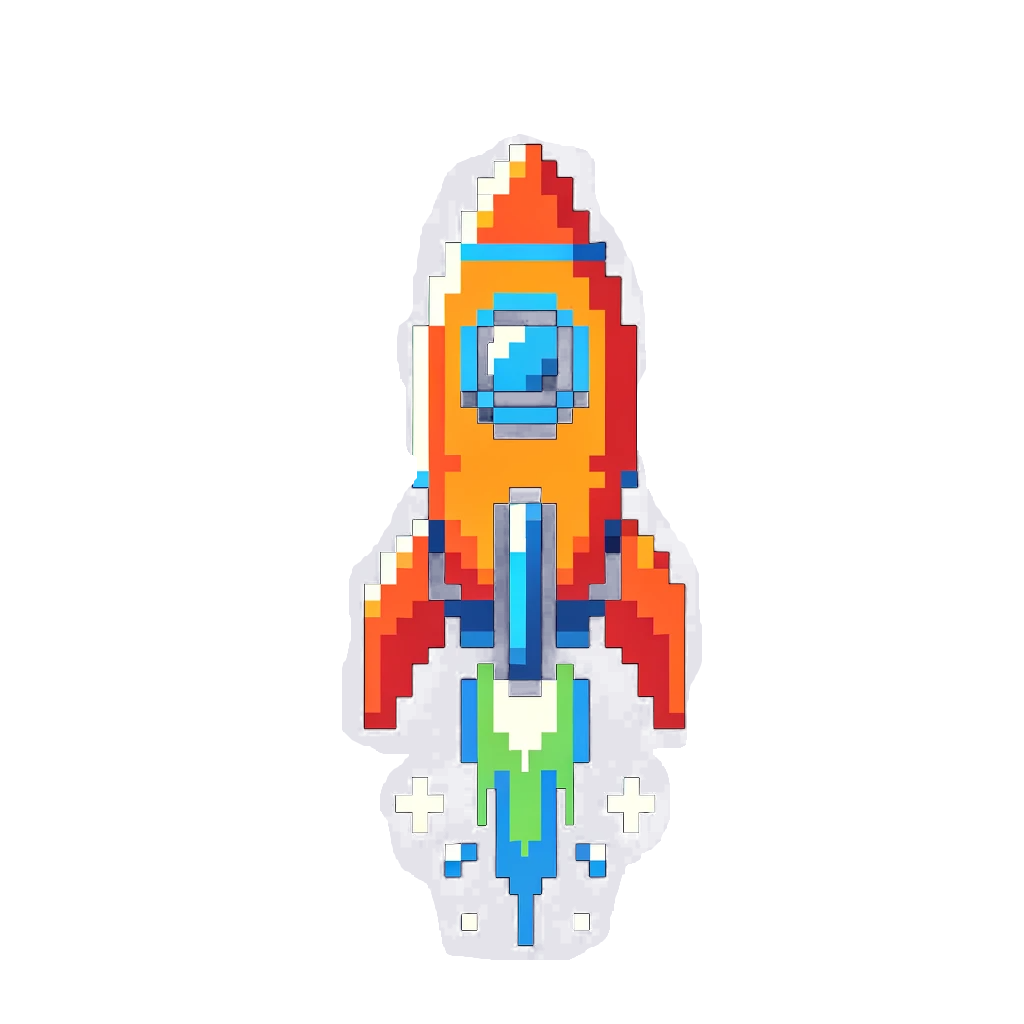
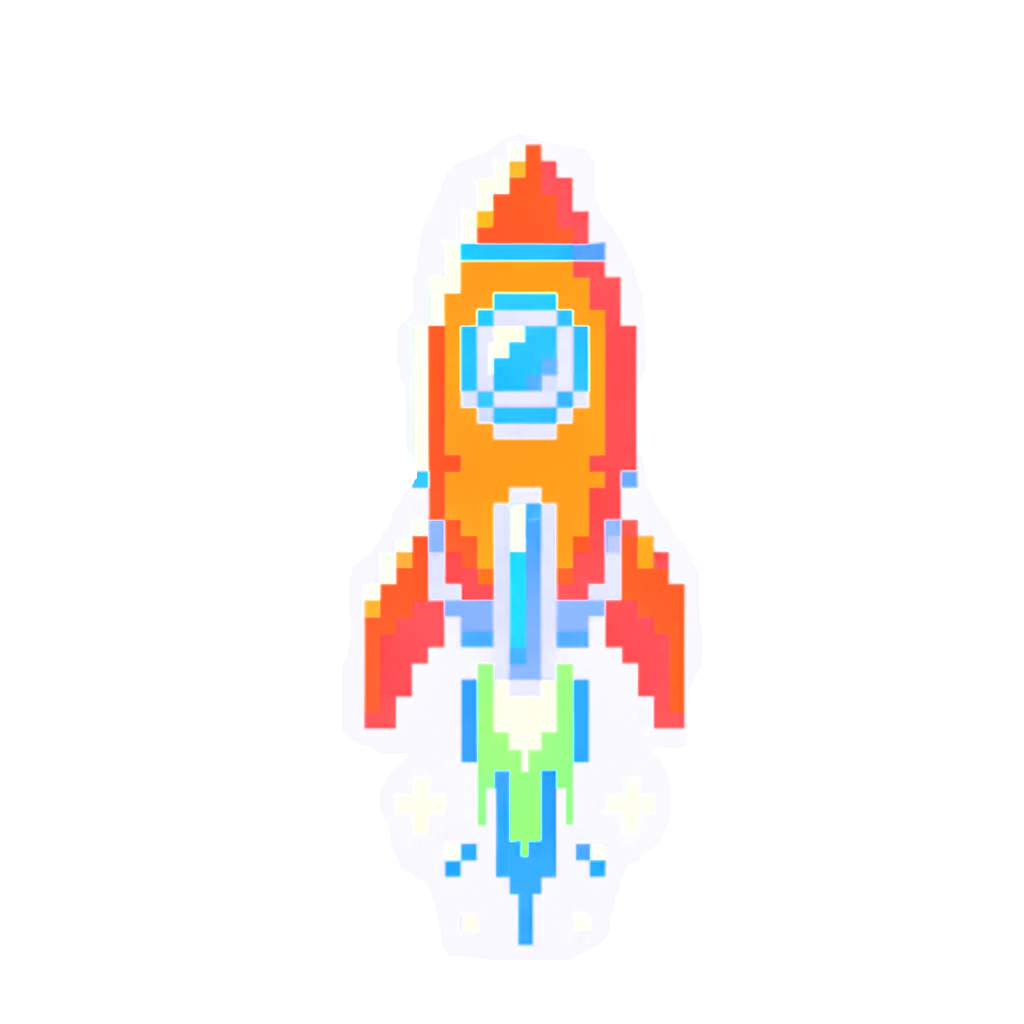
Rocket Updates
Rocket stuff

Changed region(s): [[0.3438, 0.1562, 0.6875, 0.9375], [0.5, 0.125, 0.5312, 0.1562]]

diff --git a/public/Scripts/styles.css b/public/Scripts/styles.css
@@ -3,9 +3,10 @@ body {
     padding: 0;
     font-family: 'SpaceFont';
     background-color: transparent; /* Dark background */
-    color: white; /* White text */
+    color: #ffffff; /* White text */
     min-height: 100vh;
     margin-bottom: 200px !important;
+    overflow-x: hidden;
     
 }
 body h1{
@@ -66,13 +67,25 @@ nav a:hover{
 .social-media a {
     width: 40px;
     height: 40px;
-    display: block;
+    display: inline-block;
     background-color: white; /* Placeholder background for social media icons */
     border-radius: 50%;
+    overflow: hidden;
 }
-.social-media a:hover{
-    text-shadow: 0 0 5px #fff, 0 0 10px #fff, 0 0 15px #ff00ff, 0 0 20px #ff00ff, 0 0 25px #ff00ff;
+.social-media a img {
+    display: block;
+    transition: transform 0.3s ease, box-shadow 0.3s ease; /* Smooth transition for scaling and glowing */
 }
+
+.social-media a:hover {
+    transform: scale(1.2);
+    box-shadow: 0 0 5px #fff, 0 0 10px #fff, 0 0 15px #fff, 0 0 20px #fff, 0 0 25px #fff; /* Glow effect */
+}
+
+.social-media a:hover img {
+    transform: scale(1.2); /* Increase the size by 10% on hover */
+}
+
 
 h1 {
     text-align: center !important;
@@ -142,13 +155,6 @@ h1 {
     scale: .6;
 }
 
-#leftArrow {
-    left: 10px;
-}
-
-#rightArrow {
-    right: 10%;
-}
 
 @keyframes titlePop {
     0% {
@@ -167,6 +173,44 @@ h1 {
         
     }
 }
+
+#leftArrow, #rightArrow {
+    /* ... other styles ... */
+    background: none; /* remove any background color */
+    border: none; /* remove any borders */
+    padding: 0; /* remove padding */
+    position: absolute;
+    top: 100% !important;
+    
+}
+
+#leftArrow img, #rightArrow img {
+    width: 110px; /* adjust as needed */
+    height: 110px; /* adjust as needed */
+    
+}
+
+#leftArrow img {
+    transform: rotate(-45deg); /* rotate counter-clockwise */
+}
+
+#rightArrow img {
+    transform: rotate(45deg); /* rotate clockwise */
+}
+
+#rightArrow{
+    right: 5% !important;
+}
+#leftArrow{
+    left: 5% !important;
+}
+
+img {
+    pointer-events: none;
+}
+
+
+
 
 
 

diff --git a/public/Scripts/SpaceTravel.js b/public/Scripts/SpaceTravel.js
@@ -22,7 +22,7 @@
             rocket.style.left = '100%';
         } else {
             rocket.style.transform = 'rotate(-83deg)';
-            rocket.style.left = '-10%';
+            rocket.style.left = '-50%';
         }
     
         // Use a timeout to wait for the rocket to move off the screen
@@ -35,13 +35,15 @@
             if (direction === 1) {
                 rocket.style.left = '-10%';
             } else {
-                rocket.style.left = '100%';
+                rocket.style.left = '50%';
             }
     
             // Use another timeout to wait for the rocket to move back onto the screen
             setTimeout(() => {
                 rocket.style.transform = 'rotate(0deg)';
-                rocket.style.left = '50%';
+                rocket.style.left = '7%';
+                rocket.style.top = '-30%';
+                rocket.src = "/Space/RocketOff.png"; 
             }, 1000);
         }, 1000);
     }

diff --git a/public/Scripts/stylesProject.css b/public/Scripts/stylesProject.css
@@ -65,12 +65,23 @@ nav a:hover{
 .social-media a {
     width: 40px;
     height: 40px;
-    display: block;
+    display: inline-block;
     background-color: white; /* Placeholder background for social media icons */
     border-radius: 50%;
+    overflow: hidden;
 }
-.social-media a:hover{
-    text-shadow: 0 0 5px #fff, 0 0 10px #fff, 0 0 15px #ff00ff, 0 0 20px #ff00ff, 0 0 25px #ff00ff;
+.social-media a img {
+    display: block;
+    transition: transform 0.3s ease, box-shadow 0.3s ease; /* Smooth transition for scaling and glowing */
+}
+
+.social-media a:hover {
+    transform: scale(1.2);
+    box-shadow: 0 0 5px #fff, 0 0 10px #fff, 0 0 15px #fff, 0 0 20px #fff; /* Glow effect */
+}
+
+.social-media a:hover img {
+    transform: scale(1.2); /* Increase the size by 10% on hover */
 }
 
 h1 {

diff --git a/public/Scripts/PhotoProtect.js b/public/Scripts/PhotoProtect.js
@@ -1,0 +1,5 @@
+document.addEventListener('contextmenu', function(e) {
+    if (e.target.tagName === 'IMG') {
+        e.preventDefault();
+    }
+});
